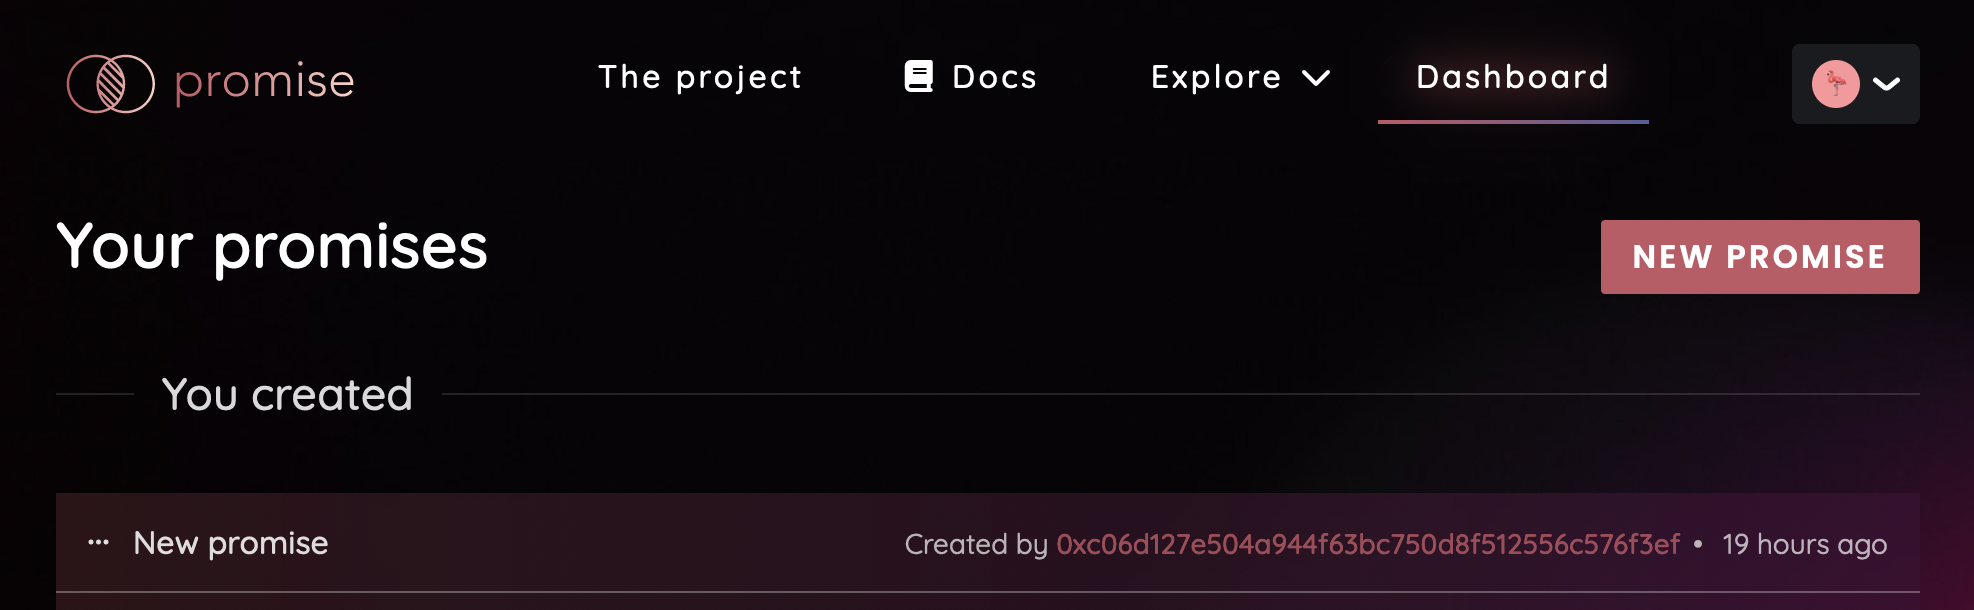
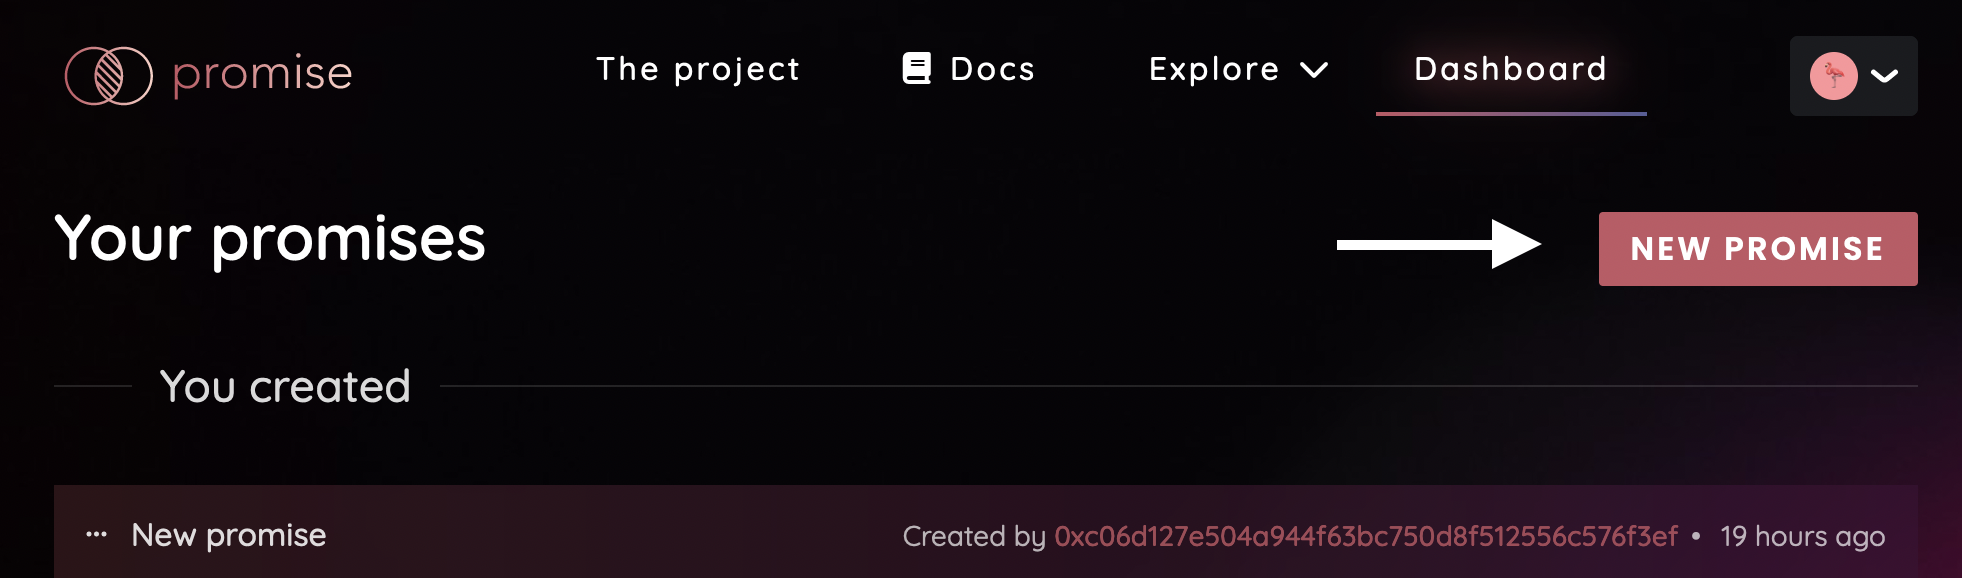
GitBook: [#16] Update 'Creating a promise' section

diff --git a/how-to-use/creating-a-promise.md b/how-to-use/creating-a-promise.md
@@ -1,21 +1,44 @@
 ---
-description: How to create a promise and interact with it?
+description: How to create a promise?
 ---
 
-# Creating & interacting with promises
+# Creating a promise
 
 <figure><img src="../.gitbook/assets/image (3).png" alt="Using the menu to navigate to the dashboard"><figcaption><p>Go to the dashboard from the menu.</p></figcaption></figure>
 
-<figure><img src="../.gitbook/assets/image (7).png" alt="Creating a promise using the App"><figcaption><p>Click "New promise" to create a promise.</p></figcaption></figure>
+<figure><img src="../.gitbook/assets/image.png" alt="Creating a promise using the App"><figcaption><p>Click "New promise" to create a promise.</p></figcaption></figure>
 
 There are two ways of creating a promise:
 
-* using the App
-* from the contract
+* using the App ;
+* from the contract.
 
 ## Creating a promise using the App
 
-...
+Using the App to create a promise will allow its content to get verified, and spare you the trouble of sending it to IPFS, and eventually to Arweave. The process is rather straightforward:
+
+<figure><img src="../.gitbook/assets/image (2).png" alt="The window displayed for creating a promise on the App"><figcaption><p>The 'Create promise' drawer on the App.</p></figcaption></figure>
+
+1. Enter a name for your promise (max 70 characters).
+2. Input data for at least one participant:
+   * Name (min 2 - max 30 characters) ;
+   * Ethereum address (a valid Ethereum address) ;
+   * Twitter username (optional ; a valid Twitter handle).
+3. Add as many participants as needed.
+4. Choose whether you want to send the files to Arweave (if you do so, you will need to sign a message to connect your wallet to the Bundlr network [sending-to-arweave-with-bundlr.md](../ipfs-and-arweave/sending-to-arweave-with-bundlr.md "mention")).
+5. Upload as many files as needed (max 10 MB).
+
+{% hint style="warning" %}
+You cannot add duplicate Ethereum addresses.
+{% endhint %}
+
+{% hint style="warning" %}
+You need to upload file by file ; you can't upload a folder directly.
+{% endhint %}
+
+{% hint style="info" %}
+Files won't be uploaded to IPFS or Arweave until you click the **Create** button.
+{% endhint %}
 
 ## Creating a promise from the contract
 

diff --git a/introduction/exploring-promises.md b/introduction/exploring-promises.md
@@ -6,13 +6,13 @@ description: How to explore promises through the website?
 
 ## Introduction
 
-<figure><img src="../.gitbook/assets/image (2).png" alt="How to reach the &#x27;Explore promises&#x27; page from the website"><figcaption><p>Go to the <em>Explore promises</em> page from the menu.</p></figcaption></figure>
+<figure><img src="../.gitbook/assets/image (2) (1).png" alt="How to reach the &#x27;Explore promises&#x27; page from the website"><figcaption><p>Go to the <em>Explore promises</em> page from the menu.</p></figcaption></figure>
 
 The _Explore Promises_ page shows the last created promises, and allows you to search through the available content. You can make a search using a promise name, an Ethereum address, the name or the Twitter handle of a participant.
 
 ## What does a promise look like?
 
-<figure><img src="../.gitbook/assets/image (1).png" alt="An example of promise as it is displayed on the website"><figcaption><p>An example promise as it is displayed on the App.</p></figcaption></figure>
+<figure><img src="../.gitbook/assets/image (1) (1).png" alt="An example of promise as it is displayed on the website"><figcaption><p>An example promise as it is displayed on the App.</p></figcaption></figure>
 
 All information and variables of the promise are stored on-chain, in its own smart contract, and fetched before it can be displayed. The content is requested from IPFS to be displayed as well. There are various sections in the promise card:
 

diff --git a/SUMMARY.md b/SUMMARY.md
@@ -6,7 +6,8 @@
 ## How to use
 
 * [Exploring promises](introduction/exploring-promises.md)
-* [Creating & interacting with promises](introduction/creating-and-interacting-with-promises.md)
+* [Creating a promise](how-to-use/creating-a-promise.md)
+* [Interacting with promises](how-to-use/interacting-with-promises.md)
 * [Verifying a Twitter handle](introduction/verifying-a-twitter-handle.md)
 
 ## Chainlink - External Adapters

diff --git a/how-to-use/interacting-with-promises.md b/how-to-use/interacting-with-promises.md
@@ -1,0 +1,6 @@
+---
+description: How to interact with your promises?
+---
+
+# Interacting with promises
+
